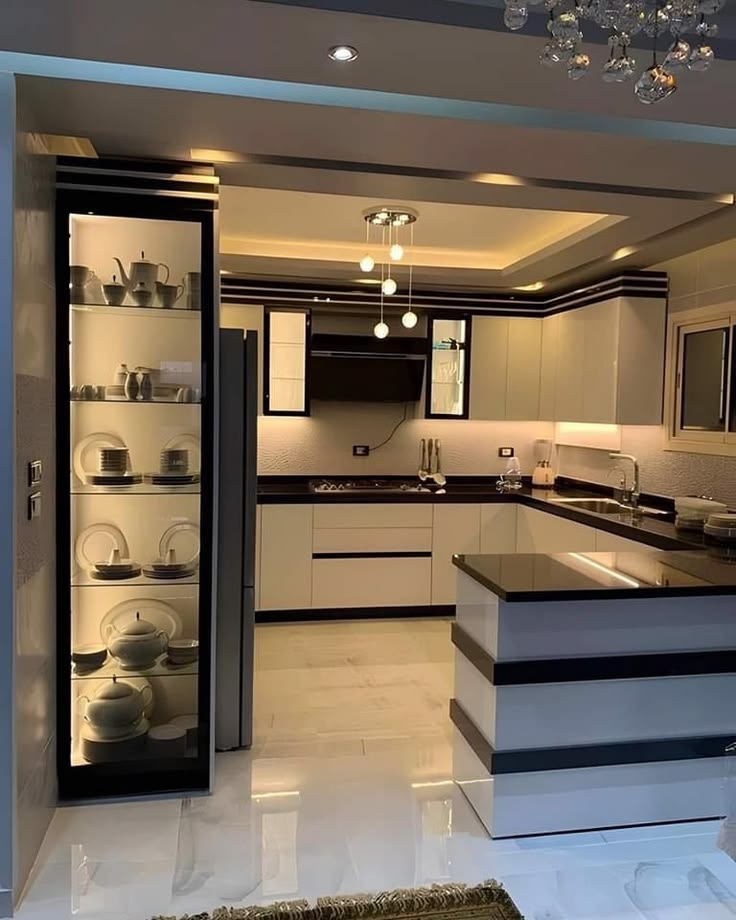
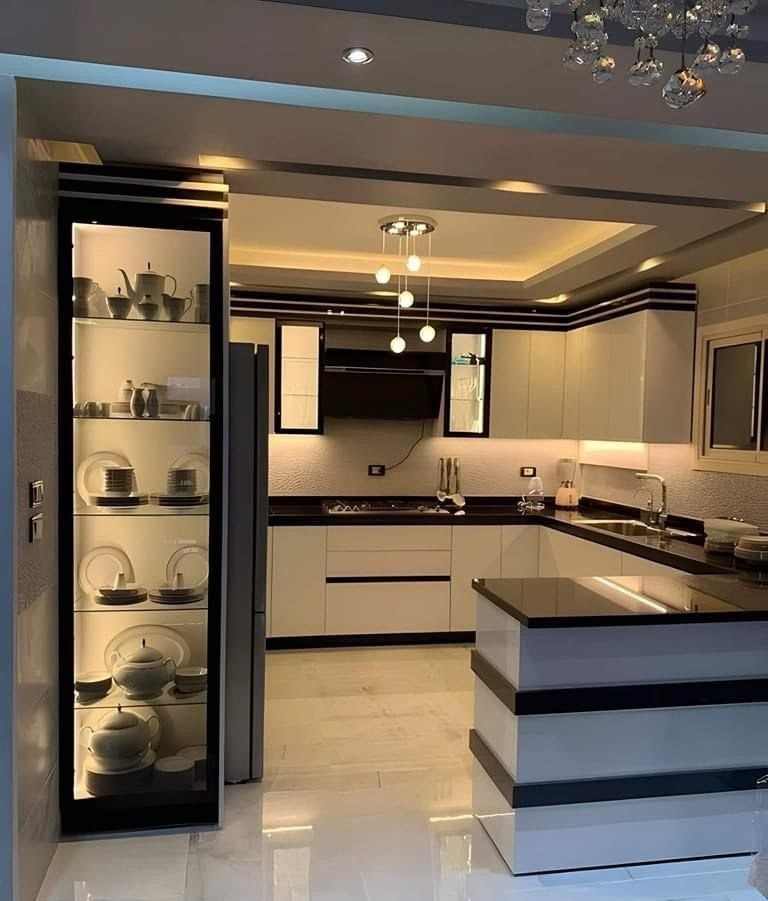
made changes

diff --git a/catgories.html b/catgories.html
@@ -78,15 +78,15 @@
 
     <div class="container">
         <h1 class="pt-5 font fw-bold text-center color display-3">Contemporary Kitchen</h1>
-        <div class="row">
-            <div class="col">
-<img src="images/pic1.jpg" alt="">
+        <div class="row row-cols-1 row-cols-md-1 row-cols-lg-3 text-center d-flex ">
+            <div class="col pt-5">
+                <img src="images/pic1.jpg" alt="" class="rounded-4">
             </div>
-            <div class="col">
-
+            <div class="col  pt-5">
+                <img src="images/pic2.jpg" alt="" class="rounded-4">
             </div>
-            <div class="col">
-
+            <div class="col  pt-5">
+                <img src="images/pic3.jpg" alt="" class="rounded-4">
             </div>
         </div>
     </div>
